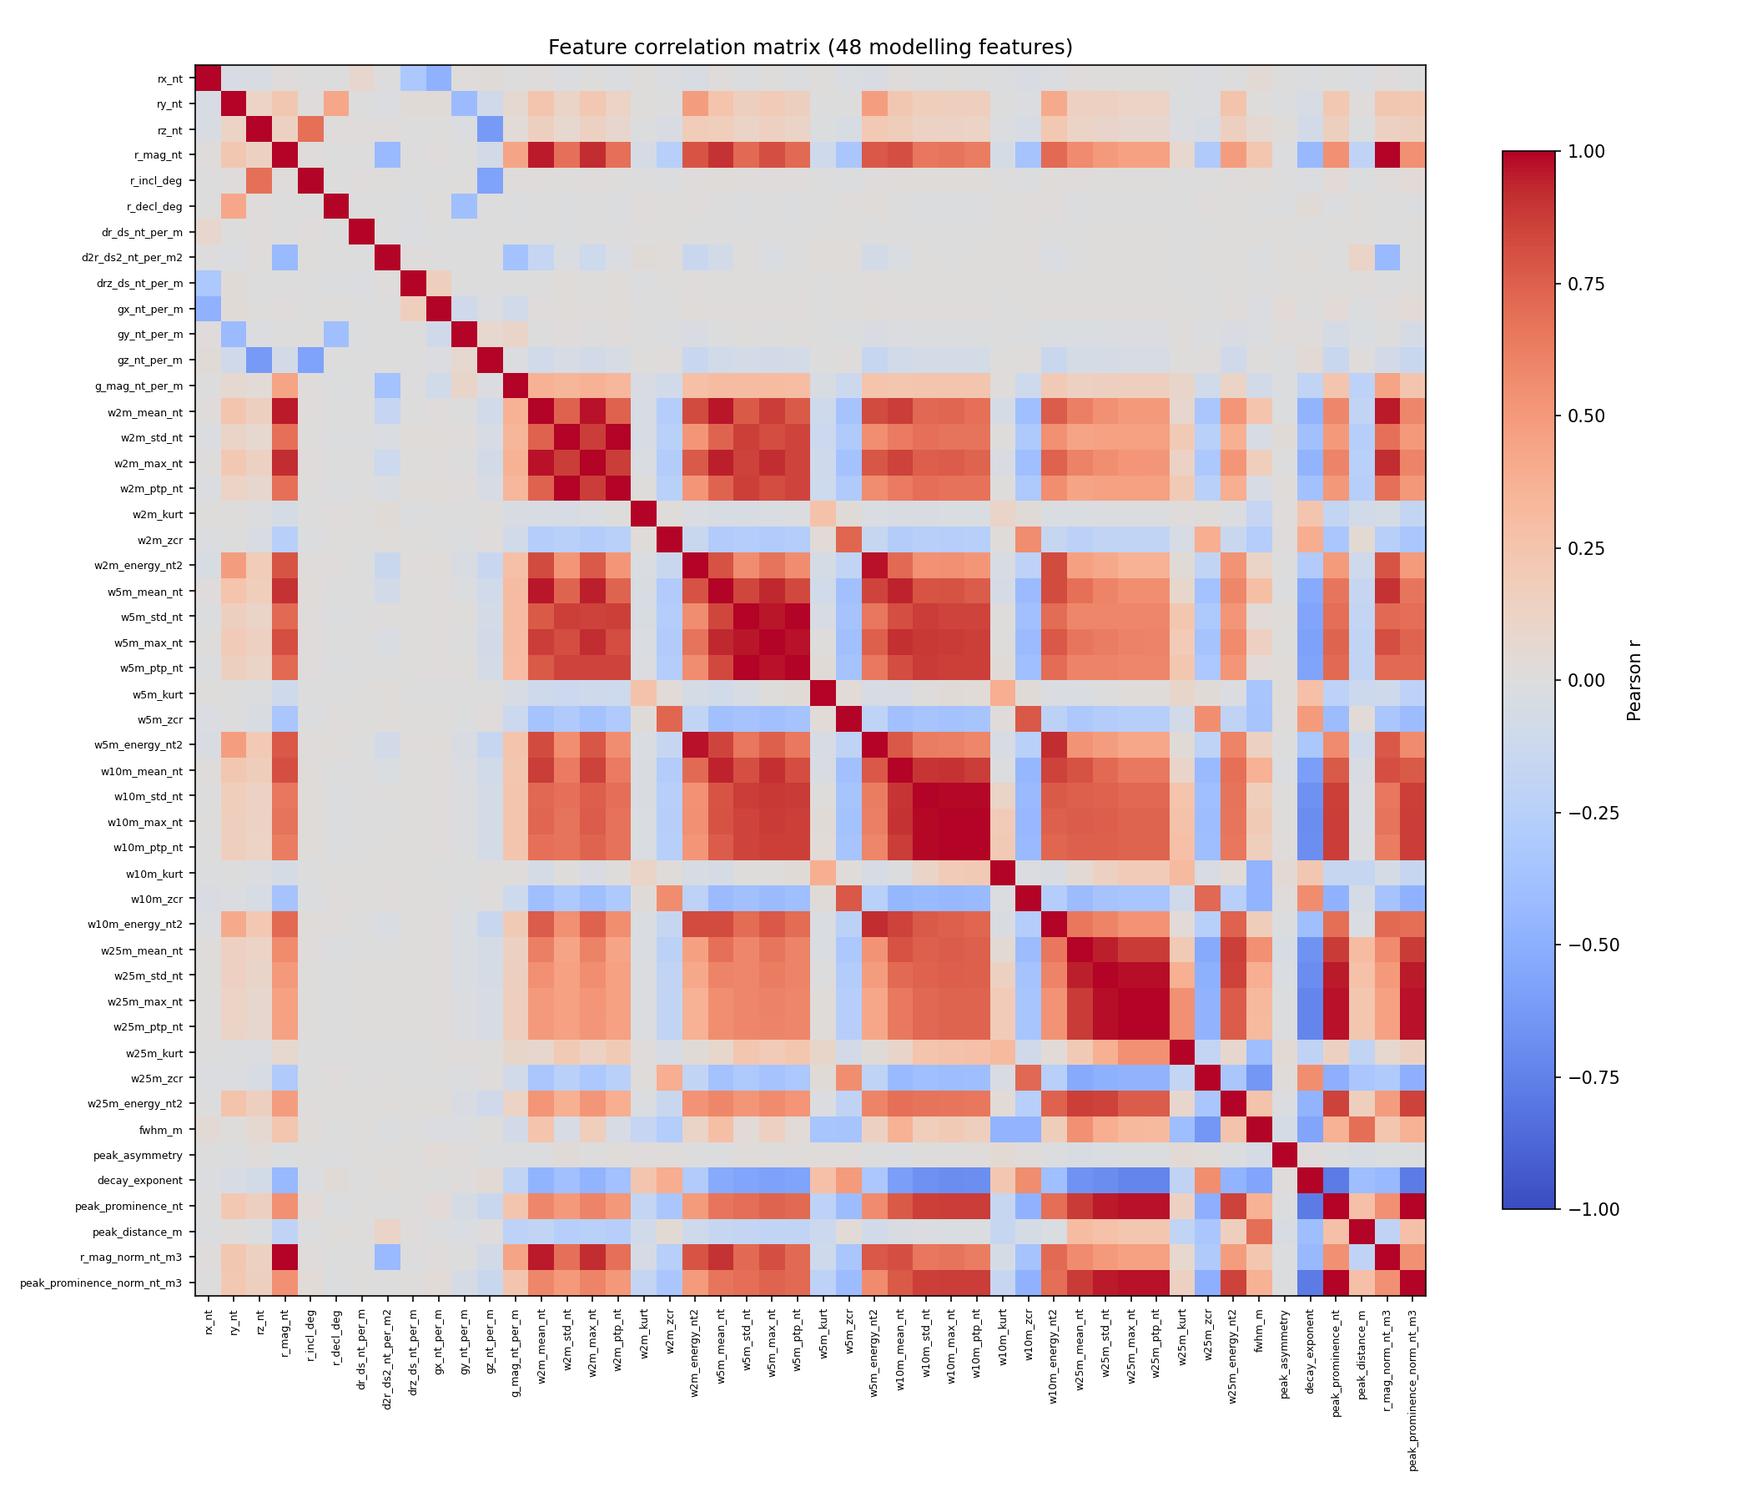
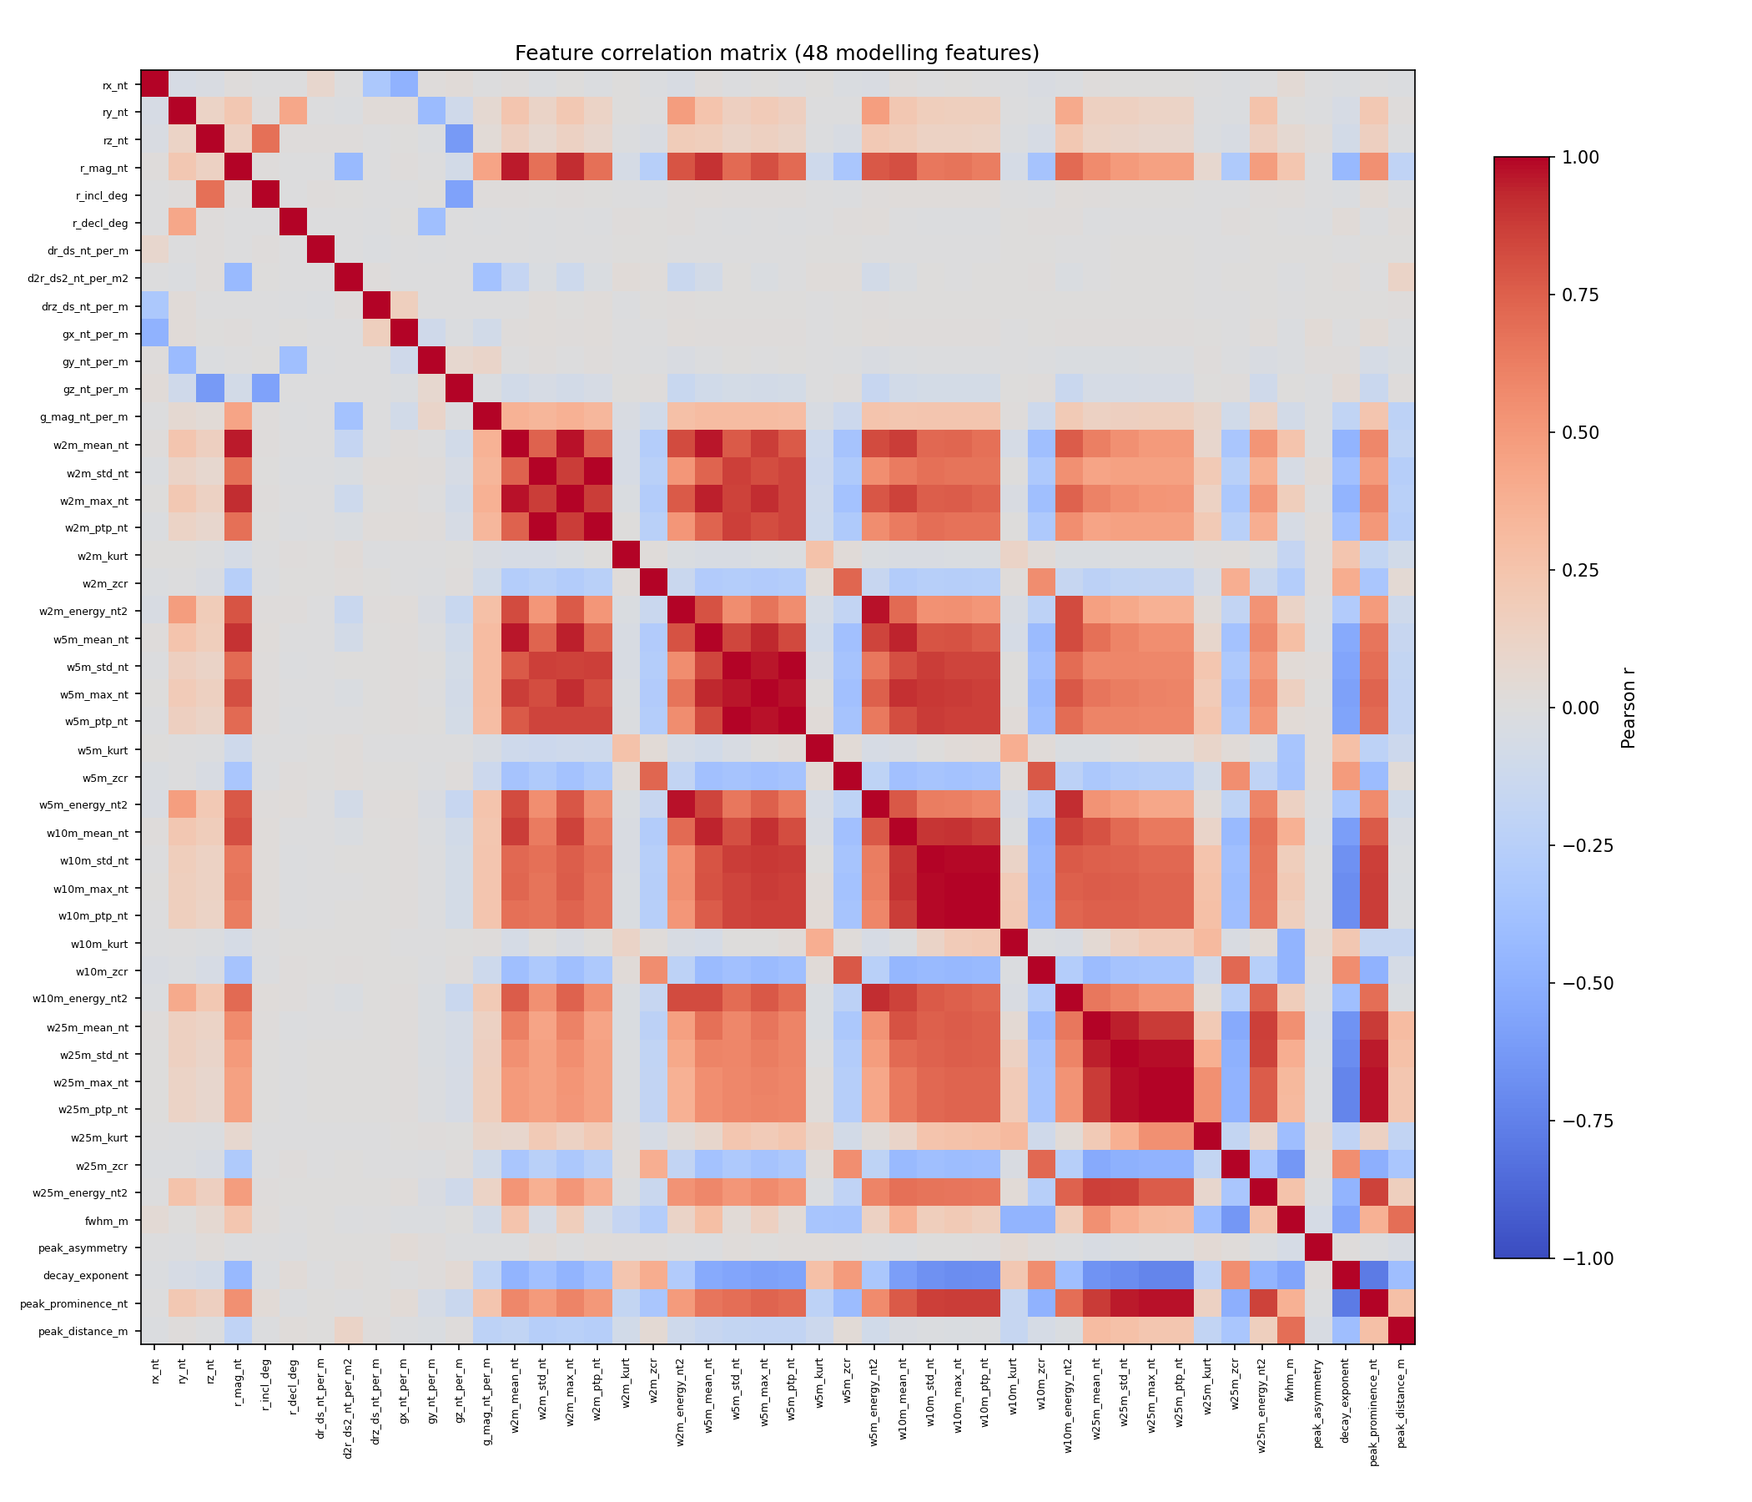
Act on the EDA findings: drop duplicate features, emphasize shape features
Implements the two candidate fixes from Stage 2.75's EDA, so Ali can test
whether they close Stage 3's recall gap on a real lsm train run.

1. r_mag_norm_nt_m3 / peak_prominence_norm_nt_m3 removed entirely, not just
   from the model input list. compute_survey_features() runtime-asserts its
   computed columns exactly match feature_columns()'s output -- the feature
   STORE schema and the model input list are one contract, not two
   independently-adjustable things -- so excluding them from modelling meant
   removing their computation too. That's a real feature_version bump (1->2,
   config/base.yaml), and the real feature store was regenerated
   (`lsm features --force`): 46 features now, not 48; redundant pairs >=0.9
   dropped 35->27. Also removed the now-fully-unused `standoff_normalise`
   config field (FeaturesConfig, config/base.yaml, architecture.md's
   illustrative snippet, one test) rather than leave a knob that does
   nothing -- it can come back, with its own version bump, once a future
   stage makes stand-off a genuine per-row measurement.

2. IsolationForestAnomalyModel (models/anomaly.py) gained
   `emphasize_features` / `emphasis_repeats`. sklearn's IsolationForest picks
   a feature UNIFORMLY at random at every split; EDA found the amplitude
   block is ~20 of 48 (now 46) features while the columns that actually
   separate defect from interference (w25m_kurt PR-AUC 0.985, w25m_zcr
[…]

diff --git a/src/lsm/features.py b/src/lsm/features.py
@@ -432,6 +432,17 @@ def feature_columns(cfg: FeaturesConfig, with_gradiometer: bool) -> list[str]:
     columns a DataFrame happened to end up with -- is what makes that check
     meaningful, and it also fixes column ORDER, which matters the moment anything
     downstream indexes by position.
+
+    `r_mag_norm_nt_m3` / `peak_prominence_norm_nt_m3` (stand-off-normalised
+    amplitude, feature_version 1) were removed entirely in feature_version 2:
+    EDA (Stage 2.75, see PLAN.md) measured them as EXACT duplicates (r=1.000)
+    of `r_mag_nt` / `peak_prominence_nt`, because `depth_m` is one global
+    config value, not measured per row, so dividing by `depth_m**3` is a
+    constant scalar multiply, not new information -- two dead dimensions in a
+    model that already has too many redundant ones. Reintroduce them (with
+    another feature_version bump) once a future stage makes stand-off a
+    genuine per-row measurement and they diverge from their un-normalised
+    counterparts again.
     """
     cols = [
         "rx_nt", "ry_nt", "rz_nt", "r_mag_nt",
@@ -446,8 +457,6 @@ def feature_columns(cfg: FeaturesConfig, with_gradiometer: bool) -> list[str]:
                  f"{p}_kurt", f"{p}_zcr", f"{p}_energy_nt2"]
     cols += ["fwhm_m", "peak_asymmetry", "decay_exponent",
              "peak_prominence_nt", "peak_distance_m"]
-    if cfg.standoff_normalise:
-        cols += ["r_mag_norm_nt_m3", "peak_prominence_norm_nt_m3"]
     return cols
 
 
@@ -533,18 +542,15 @@ def compute_survey_features(
 
     out |= _peak_shape(r_mag, step_m, cfg)
 
-    # -- stand-off normalisation --------------------------------------------
-    if cfg.standoff_normalise:
-        # 1/r^3 falloff: an anomaly of the same physical size measured from twice
-        # the stand-off reads an eighth as strong. Multiplying by h^3 puts surveys
-        # flown at different heights on one amplitude scale.
-        #
-        # Honest caveat: within a single survey the stand-off is constant, so this
-        # is a constant rescale and buys a tree model exactly nothing. It earns its
-        # place across surveys and across lines, which is Stage 6.
-        h3 = float(ctx.standoff_m) ** 3
-        out["r_mag_norm_nt_m3"] = r_mag * h3
-        out["peak_prominence_norm_nt_m3"] = out["peak_prominence_nt"] * h3
+    # Stand-off normalisation (1/r^3: multiplying by depth_m^3 puts surveys flown
+    # at different heights on one amplitude scale) was removed here (feature_version
+    # 1 -> 2): EDA (Stage 2.75, PLAN.md) measured r_mag_norm_nt_m3 / peak_prominence_
+    # norm_nt_m3 as EXACT duplicates (r=1.000) of r_mag_nt / peak_prominence_nt,
+    # because depth_m is one global config value, not measured per row -- a constant
+    # scalar multiply within any survey, confirming what this code already suspected
+    # ("buys a tree model exactly nothing"). It earns its place once stand-off is a
+    # genuine per-row measurement across surveys/lines, which is Stage 6 -- reintroduce
+    # it there, not before.
 
     # -- assemble, flag edges, cast to storage precision ---------------------
     feat = pd.DataFrame(out, index=df.index)

diff --git a/src/lsm/models/anomaly.py b/src/lsm/models/anomaly.py
@@ -66,10 +66,37 @@ class IsolationForestAnomalyModel:
     with no peak nearby -- IsolationForest has no native missing-value support,
     so they are filled with 0.0 ("no local peak structure"), fit and applied
     identically at score time.
+
+    `emphasize_features` / `emphasis_repeats`: sklearn's IsolationForest picks a
+    feature UNIFORMLY at random at every split. EDA (Stage 2.75, PLAN.md) found
+    that ~20 of `feature_cols` are a mutually-correlated amplitude block that
+    separates defect from background almost perfectly but is mediocre at
+    defect-vs-interference specifically (PR-AUC < 0.55), while a small,
+    different set of wide-window shape features (`w25m_kurt` PR-AUC 0.985,
+    `w25m_zcr` 0.786) does the actual defect-vs-interference discriminating.
+    With one column per feature, an isolation path is far more likely to hit
+    the dominant amplitude block than one of those two or three columns.
+    Repeating the named columns `emphasis_repeats` times in the fitted/scored
+    matrix raises their selection probability without changing what they mean
+    or touching `feature_cols` (still the bundle-pinned, feature-store-facing
+    contract) -- a no-op when `emphasis_repeats <= 1` or the list is empty.
     """
 
-    def __init__(self, feature_cols: list[str], contamination: float, n_estimators: int, seed: int):
+    def __init__(
+        self,
+        feature_cols: list[str],
+        contamination: float,
+        n_estimators: int,
+        seed: int,
+        emphasize_features: list[str] | None = None,
+        emphasis_repeats: int = 1,
+    ):
         self.feature_cols = feature_cols
+        self.emphasize_features = list(emphasize_features or [])
+        self.emphasis_repeats = emphasis_repeats
+        unknown = set(self.emphasize_features) - set(feature_cols)
+        if unknown:
+            raise ValueError(f"emphasize_features not in feature_cols: {sorted(unknown)}")
         self.model = IsolationForest(
             contamination=contamination,
             n_estimators=n_estimators,
@@ -78,7 +105,12 @@ class IsolationForestAnomalyModel:
         )
 
     def _matrix(self, X: pd.DataFrame) -> np.ndarray:
-        return X[self.feature_cols].fillna(0.0).to_numpy(dtype=np.float64)
+        base = X[self.feature_cols].fillna(0.0).to_numpy(dtype=np.float64)
+        extra_copies = self.emphasis_repeats - 1
+        if not self.emphasize_features or extra_copies <= 0:
+            return base
+        emphasis = X[self.emphasize_features].fillna(0.0).to_numpy(dtype=np.float64)
+        return np.hstack([base, np.tile(emphasis, (1, extra_copies))])
 
     def fit(self, X: pd.DataFrame) -> "IsolationForestAnomalyModel":
         self.model.fit(self._matrix(X))

diff --git a/tests/test_models_anomaly.py b/tests/test_models_anomaly.py
@@ -61,3 +61,36 @@ def test_calibrated_threshold_is_the_upper_quantile():
     train_scores = np.arange(100, dtype=float)  # 0..99
     thresh = calibrated_threshold(train_scores, contamination=0.1)
     assert thresh == np.quantile(train_scores, 0.9)
+
+
+def test_emphasis_repeats_widens_the_fitted_matrix():
+    X = pd.DataFrame({"a": np.arange(50.0), "b": np.arange(50.0) * 2})
+    model = IsolationForestAnomalyModel(
+        feature_cols=["a", "b"], contamination=0.1, n_estimators=10, seed=0,
+        emphasize_features=["a"], emphasis_repeats=4,
+    )
+    matrix = model._matrix(X)
+    assert matrix.shape == (50, 2 + 3)  # base (a, b) + 3 extra copies of a
+
+
+def test_emphasis_repeats_of_one_is_a_no_op():
+    X = pd.DataFrame({"a": np.arange(10.0), "b": np.arange(10.0) * 2})
+    plain = IsolationForestAnomalyModel(
+        feature_cols=["a", "b"], contamination=0.1, n_estimators=10, seed=0,
+    )
+    emphasised = IsolationForestAnomalyModel(
+        feature_cols=["a", "b"], contamination=0.1, n_estimators=10, seed=0,
+        emphasize_features=["a"], emphasis_repeats=1,
+    )
+    np.testing.assert_array_equal(plain._matrix(X), emphasised._matrix(X))
+
+
+def test_emphasize_features_must_be_a_subset_of_feature_cols():
+    try:
+        IsolationForestAnomalyModel(
+            feature_cols=["a", "b"], contamination=0.1, n_estimators=10, seed=0,
+            emphasize_features=["c"], emphasis_repeats=3,
+        )
+        assert False, "expected ValueError"
+    except ValueError:
+        pass

diff --git a/tests/test_features.py b/tests/test_features.py
@@ -130,7 +130,7 @@ def test_detrend_removes_any_polynomial_of_degree_three(coefs):
     fcfg = FeaturesConfig(
         version=1,
         detrend=DetrendConfig(method="robust_poly", degree=3, window_m=0.0),
-        windows_m=[5.0], peak=PeakConfig(), standoff_normalise=False, edge_policy="flag",
+        windows_m=[5.0], peak=PeakConfig(), edge_policy="flag",
     )
     s = np.arange(400) * 0.5
     y = np.polyval(coefs, (s - s.mean()) / max(1.0, s.std()))
@@ -381,7 +381,7 @@ def test_feature_version_bump_invalidates_the_cache_and_isolates_the_store(cfg, 
         make_survey(), ctx, v1, tmp_path, "same_content", cfg.config_sha256
     )
     v2 = v1.model_copy(deep=True)
-    v2.version = 2
+    v2.version = v1.version + 1
     outcome_v2, dir_v2 = compute_and_store(
         make_survey(), ctx, v2, tmp_path, "same_content", cfg.config_sha256
     )
@@ -389,7 +389,7 @@ def test_feature_version_bump_invalidates_the_cache_and_isolates_the_store(cfg, 
     assert outcome_v1 == "computed" and outcome_v2 == "computed"
     assert dir_v1 != dir_v2, "each feature_version gets its own directory"
     assert dir_v1.exists() and dir_v2.exists(), "a bump must not overwrite the old features"
-    assert "fv=1" in str(dir_v1) and "fv=2" in str(dir_v2)
+    assert f"fv={v1.version}" in str(dir_v1) and f"fv={v2.version}" in str(dir_v2)
 
 
 def test_feature_store_path_carries_the_version(cfg, tmp_path):

diff --git a/src/lsm/train.py b/src/lsm/train.py
@@ -169,6 +169,8 @@ def _run_grouped_cv(
             contamination=cfg.base.model.anomaly["contamination"],
             n_estimators=cfg.base.model.anomaly["n_estimators"],
             seed=seed,
+            emphasize_features=cfg.base.model.anomaly.get("emphasize_features"),
+            emphasis_repeats=cfg.base.model.anomaly.get("emphasis_repeats", 1),
         ).fit(train)
 
         mad_thresholds.append(calibrated_threshold(mad.score(train), cfg.base.model.anomaly["contamination"]))
@@ -594,6 +596,8 @@ def _log_and_persist(
             contamination=cfg.base.model.anomaly["contamination"],
             n_estimators=cfg.base.model.anomaly["n_estimators"],
             seed=cfg.seed,
+            emphasize_features=cfg.base.model.anomaly.get("emphasize_features"),
+            emphasis_repeats=cfg.base.model.anomaly.get("emphasis_repeats", 1),
         ).fit(corpus)
 
         model_dir = Path(cfg.env.storage.model_dir)

diff --git a/src/lsm/config.py b/src/lsm/config.py
@@ -99,7 +99,6 @@ class FeaturesConfig(BaseModel):
     detrend: DetrendConfig
     windows_m: list[float]
     peak: PeakConfig = PeakConfig()
-    standoff_normalise: bool
     edge_policy: Literal["flag", "drop"]
 
 

diff --git a/PLAN.md b/PLAN.md
@@ -71,16 +71,18 @@ pushed anywhere** (no remote configured).
    (coverage 0.905 ∈ [0.87, 0.93], up from 0.727 on the 12-defect corpus) — the same extra
    data that sharpened Stage 3 also gave conformal calibration enough held-out points to hit
    its target band.
-2. **EDA (Stage 2.75, done 2026-07-30) found a concrete, testable lead on Stage 3's
-   remaining gap, not yet acted on.** Per-feature separability shows the ~20-feature
-   amplitude block (that IsolationForest is fit on unweighted) is mediocre at defect-vs-
-   interference specifically (mostly PR-AUC < 0.55), while a small, different set of wide-
-   window shape features (`w25m_kurt` = 0.985, `w25m_zcr` = 0.786) does the actual
-   discriminating. That's a plausible mechanism for the interference let through at the
-   tight dig-budget cutoff. Untested next step: drop the two exact-duplicate features
-   (`r_mag_nt`/`r_mag_norm_nt_m3`, `peak_prominence_nt`/`peak_prominence_norm_nt_m3`) and/or
-   re-weight so `w25m_kurt` isn't drowned out, then re-run Stage 3 to see if the recall gap
-   closes. A modelling change, needs a decision before touching `anomaly.py`.
+2. **EDA (Stage 2.75) found a concrete lead on Stage 3's remaining gap, now implemented,
+   not yet run for real.** Per-feature separability shows the ~20-feature amplitude block
+   (that IsolationForest is fit on unweighted) is mediocre at defect-vs-interference
+   specifically (mostly PR-AUC < 0.55), while a small, different set of wide-window shape
+   features (`w25m_kurt` = 0.985, `w25m_zcr` = 0.786) does the actual discriminating — a
+   plausible mechanism for the interference let through at the tight dig-budget cutoff.
+   Implemented 2026-07-30: the two exact-duplicate features are gone (`feature_version`
+   1 → 2), and `IsolationForestAnomalyModel` gained a config-driven `emphasize_features`/
+   `emphasis_repeats` knob that raises `w25m_kurt`/`w25m_zcr`/`w10m_kurt`'s selection
+   probability in the forest without touching the bundle's `feature_cols` contract. **Needs
+   a real `lsm train` run on the 5-line corpus to see if the recall gap actually closes** —
+   that's the untested part.
 3. **`README.md` — currently doesn't exist.** If this gets published to showcase
    production readiness, this is the first thing anyone sees on the repo homepage, and
    right now there isn't one. `PLAN.md` and `LSM_PROJECT.md` are internal planning
@@ -390,12 +392,16 @@ scoring — which means "shape feature present vs zero-filled" is itself a real,
 meaningful signal (a peak exists nearby or it doesn't), not leakage, but worth stating
 explicitly since a model doesn't know the difference between "genuinely zero" and "filled".
 
-**Redundancy: confirmed and worse than assumed.** 35 feature pairs (of 1,128 possible) have
-`|r| ≥ 0.9`. Two pairs are **exact duplicates under the current config** (`r = 1.000`):
+**Redundancy: confirmed and worse than assumed.** 35 feature pairs (of 1,128 possible) had
+`|r| ≥ 0.9`. Two pairs were **exact duplicates under the current config** (`r = 1.000`):
 `r_mag_nt` / `r_mag_norm_nt_m3`, and `peak_prominence_nt` / `peak_prominence_norm_nt_m3` —
 because standoff-normalisation divides by `depth_m³`, and `depth_m` is a single global
 config value, not a per-row measurement, so it's a constant scalar multiply, not new
-information. The rest of the redundant block is the window-statistic family
+information. **Acted on, not just noted:** `feature_columns()` no longer includes them, and
+`compute_survey_features()` no longer computes them at all (`feature_version` 1 → 2,
+regenerated the real feature store — 46 features now, not 48; redundant pairs ≥0.9 dropped
+35 → 27). Reintroduce them, with another version bump, once a future stage makes stand-off a
+genuine per-row measurement. The rest of the redundant block is the window-statistic family
 (`w2m`/`w5m`/`w10m`/`w25m` × `mean`/`std`/`max`/`ptp`/`energy`) — expected, since they're all
 computed from the same underlying residual at overlapping window lengths, but the
 correlation heatmap (`docs/img/eda_feature_correlation.png`) makes the size of that block
@@ -426,10 +432,21 @@ amplitude cluster than on the one or two shape features that would correctly rej
 interference — consistent with Stage 3's own finding that IsolationForest's recall loss
 shows up specifically at the tight dig-budget cutoff via extra interference let through.
 
-**Not yet done, and the obvious next step if this is worth pursuing:** actually test it —
-drop the two exact duplicates and/or re-weight/select features so `w25m_kurt` and its shape
-neighbours aren't drowned out, then re-run Stage 3 to see whether the recall gap closes. That
-is a modelling change, not an EDA one, and needs a decision before touching `anomaly.py`.
+**Implemented 2026-07-30, same day, not yet run for real.** Two changes, both config-
+reversible, neither touching what MAD or the severity model see:
+1. The two exact duplicates dropped from the model entirely (`feature_version` 1 → 2, above).
+2. `IsolationForestAnomalyModel` gained `emphasize_features` / `emphasis_repeats`
+   (`models/anomaly.py`): sklearn's IsolationForest picks a feature *uniformly at random* at
+   every split, so repeating `w25m_kurt`/`w25m_zcr`/`w10m_kurt` in the fitted/scored matrix
+   (`config/base.yaml`: `emphasis_repeats: 5`) raises their selection probability without
+   changing what they mean or touching the bundle-pinned `feature_cols` contract. Set
+   `emphasis_repeats: 1` (or `emphasize_features: []`) to fall back to the original,
+   unweighted behaviour — this is a knob, not a rewrite. New unit tests pin the matrix-
+   widening behaviour, the no-op-at-repeats=1 case, and a loud `ValueError` on a config typo
+   naming a column outside `feature_cols`.
+
+**Needs a real `lsm train` re-run to know if it actually closes the recall gap** — that's
+the test this was built for, not yet executed.
 
 **Outputs:** `scripts/eda_features.py` (reproducible), `docs/img/eda_feature_correlation.png`,
 `docs/img/eda_top_separating_features.png`, `docs/img/eda_bottom_separating_features.png`,

diff --git a/.claude/skills/lsm-integrity/references/architecture.md b/.claude/skills/lsm-integrity/references/architecture.md
@@ -84,11 +84,10 @@ validate:
   field_range_nT: [-80000.0, 80000.0]
 
 features:
-  version: 1             # feature_version: bump on ANY behaviour change in features.py
+  version: 2             # feature_version: bump on ANY behaviour change in features.py
   detrend: {method: robust_poly, degree: 3, window_m: 40.0}   # poly, then rolling-median high-pass
   windows_m: [2.0, 5.0, 10.0, 25.0]
   peak: {prominence_mad: 4.0, flank_fit_span: [0.5, 3.0], assign_radius_fwhm: 2.0}
-  standoff_normalise: true
   edge_policy: flag      # flag|drop -- see data-contract.md §5
 
 model:
